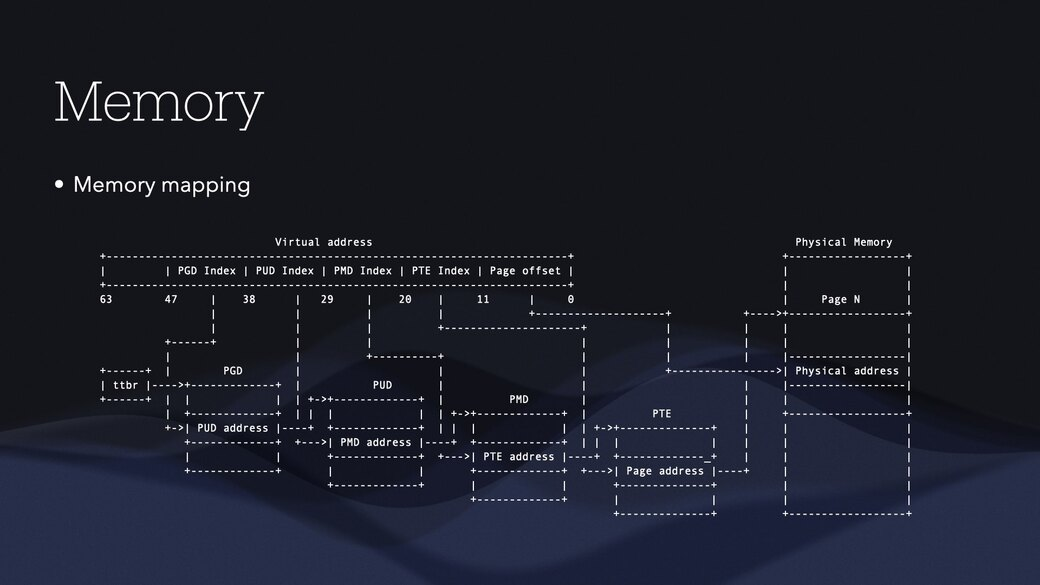
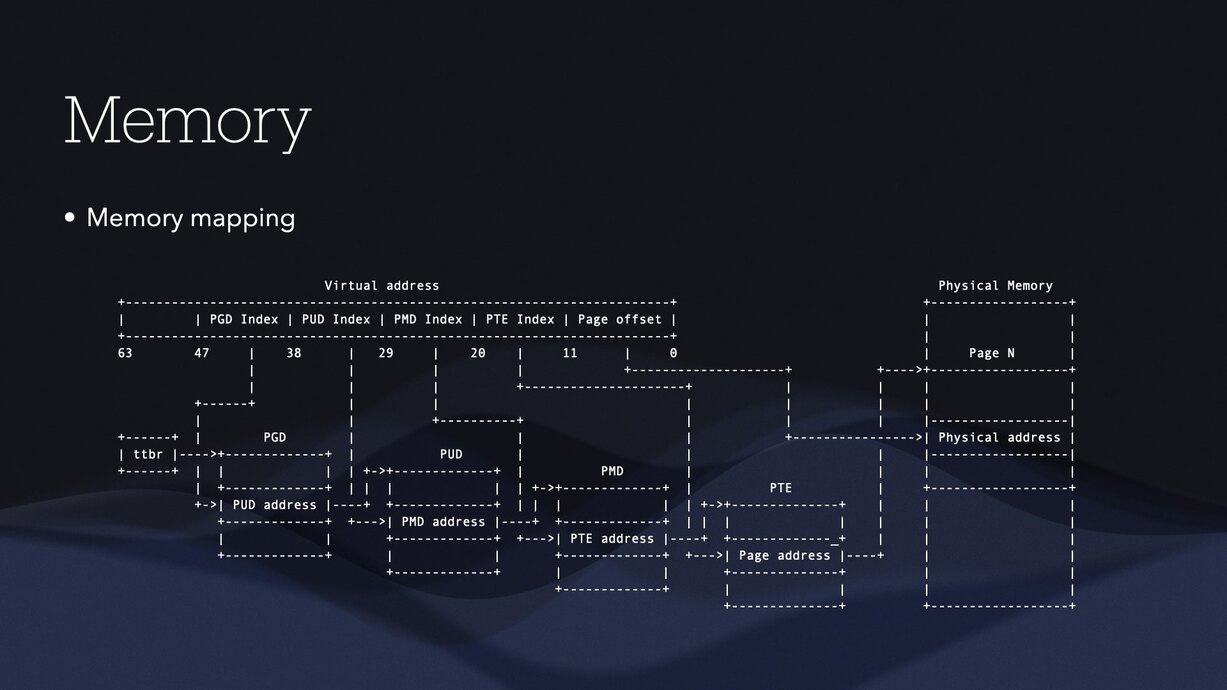
Increased Slides size, ready for presentation DO NOT TOUCH ANYMORE.

diff --git a/binuser/init.c b/binuser/init.c
@@ -9,9 +9,9 @@ int main() {
       sys_print("Failed to spawn " program); \
   } while (0)
 
-  LAUNCH("/bin/explorer");
-  LAUNCH("/bin/credits");
-  LAUNCH("/bin/slides");
+//  LAUNCH("/bin/explorer");
+//  LAUNCH("/bin/credits");
+//  LAUNCH("/bin/slides");
 
   while (true)
     asm volatile("");
